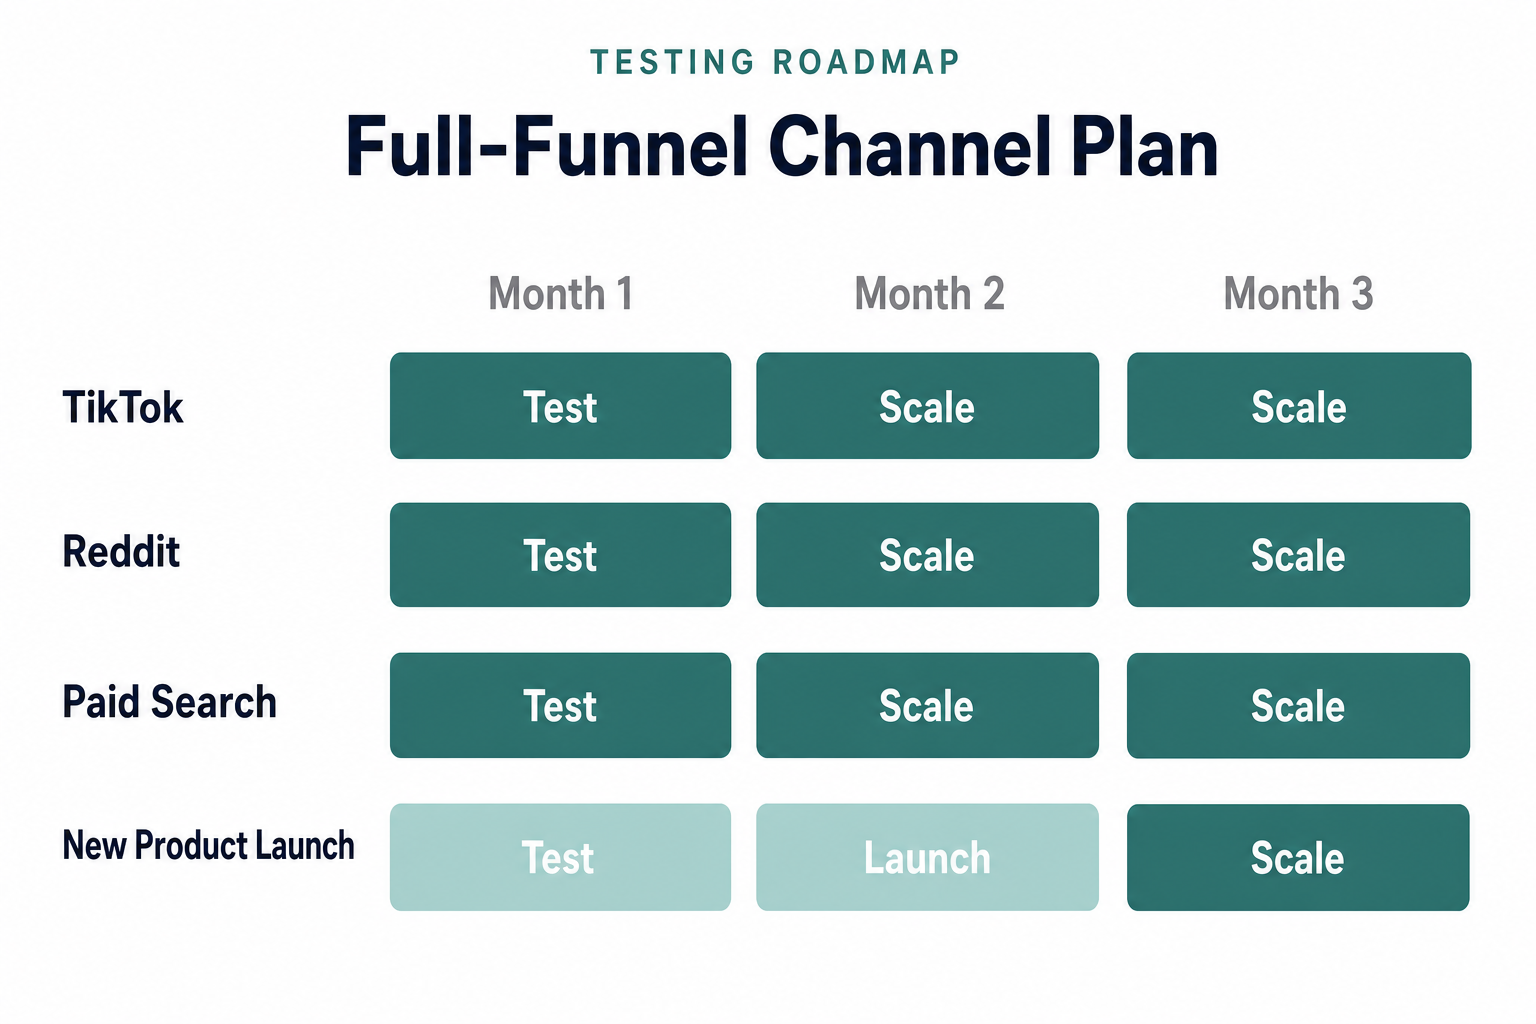
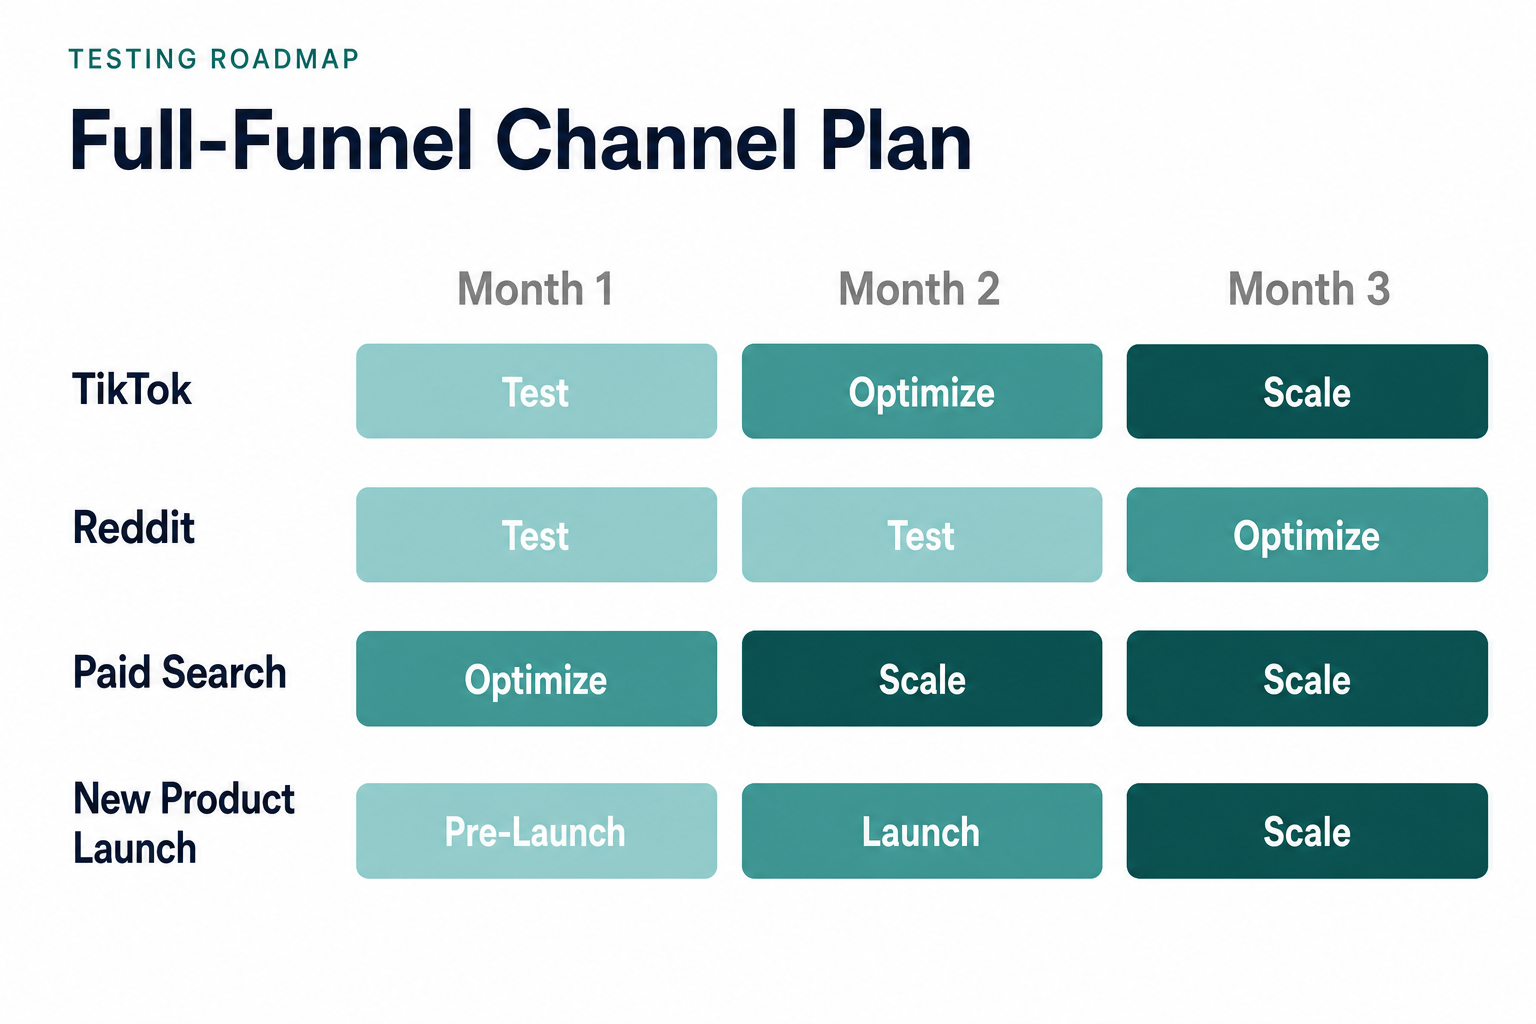
Give each channel its own testing phase progression.
Update the Baby Brand Growth roadmap cover so TikTok, Reddit, paid
search, and new product launch each start from a realistic phase
and progress independently, with color intensity signaling maturity.

diff --git a/src/content/case-studies.ts b/src/content/case-studies.ts
@@ -72,7 +72,7 @@ export const caseStudies: CaseStudy[] = [
     featured: true,
     coverImage: "/case-studies/baby-brand-growth.png",
     coverImageAlt:
-      "Simplified full-funnel channel testing roadmap across TikTok, Reddit, paid search, and new product launches",
+      "Full-funnel channel testing roadmap with staggered phases per channel: TikTok test-to-scale, Reddit test-to-optimize, paid search optimize-to-scale, and new product pre-launch-to-scale",
   },
   {
     slug: "spellquest",
